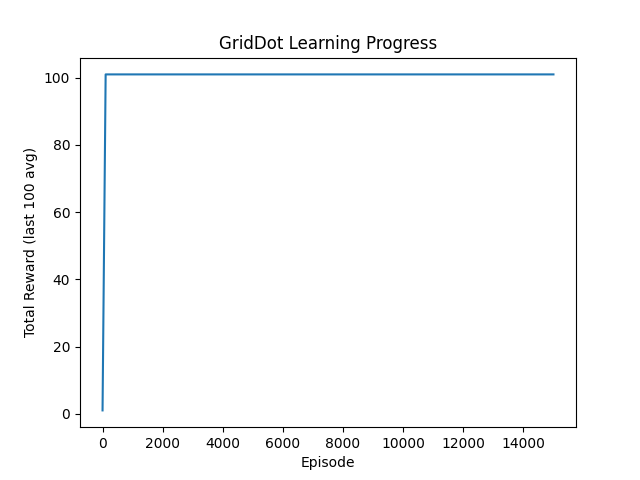
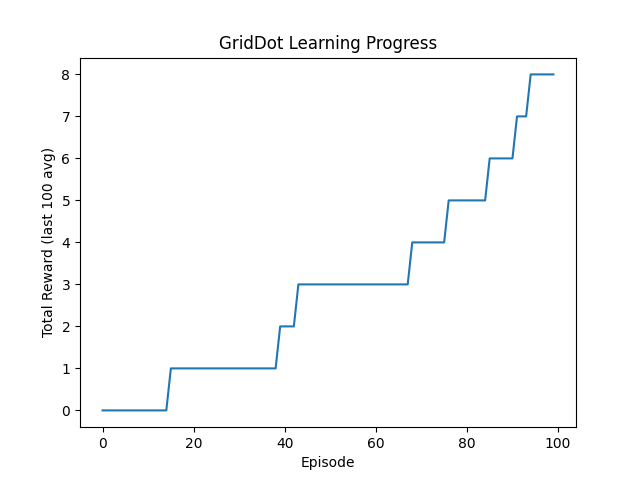
added bush collision

diff --git a/fa_env/envs/grid_world.py b/fa_env/envs/grid_world.py
@@ -126,7 +126,6 @@ class GridWorldEnv(gym.Env):
             space = random.choice(grass_spaces)
             self.map[space[0]][space[1]] = 'b'
 
-
         #Idea for Connor, to prevent getting trapped do as i did with bushes, but place agent only on pavement, target only on sand
 
         # Choose the agent's location uniformly at random
@@ -156,7 +155,9 @@ class GridWorldEnv(gym.Env):
         new_coords = self._agent_location + direction
 
         #Collision
-        if((new_coords[0] < 13 and new_coords[1] < 13) and (new_coords[0] >= 0 and new_coords[1] >= 0) and (str(self.map[new_coords[0]][new_coords[1]]).strip() not in ['w', 'b'])):
+        print(old_coords)
+
+        if((new_coords[0] < 13 and new_coords[1] < 13) and (new_coords[0] >= 0 and new_coords[1] >= 0) and (str(self.map[new_coords[1]][new_coords[0]]).strip() not in ['w', 'b'])):
             self._agent_location = new_coords
 
         #Pick up trash
